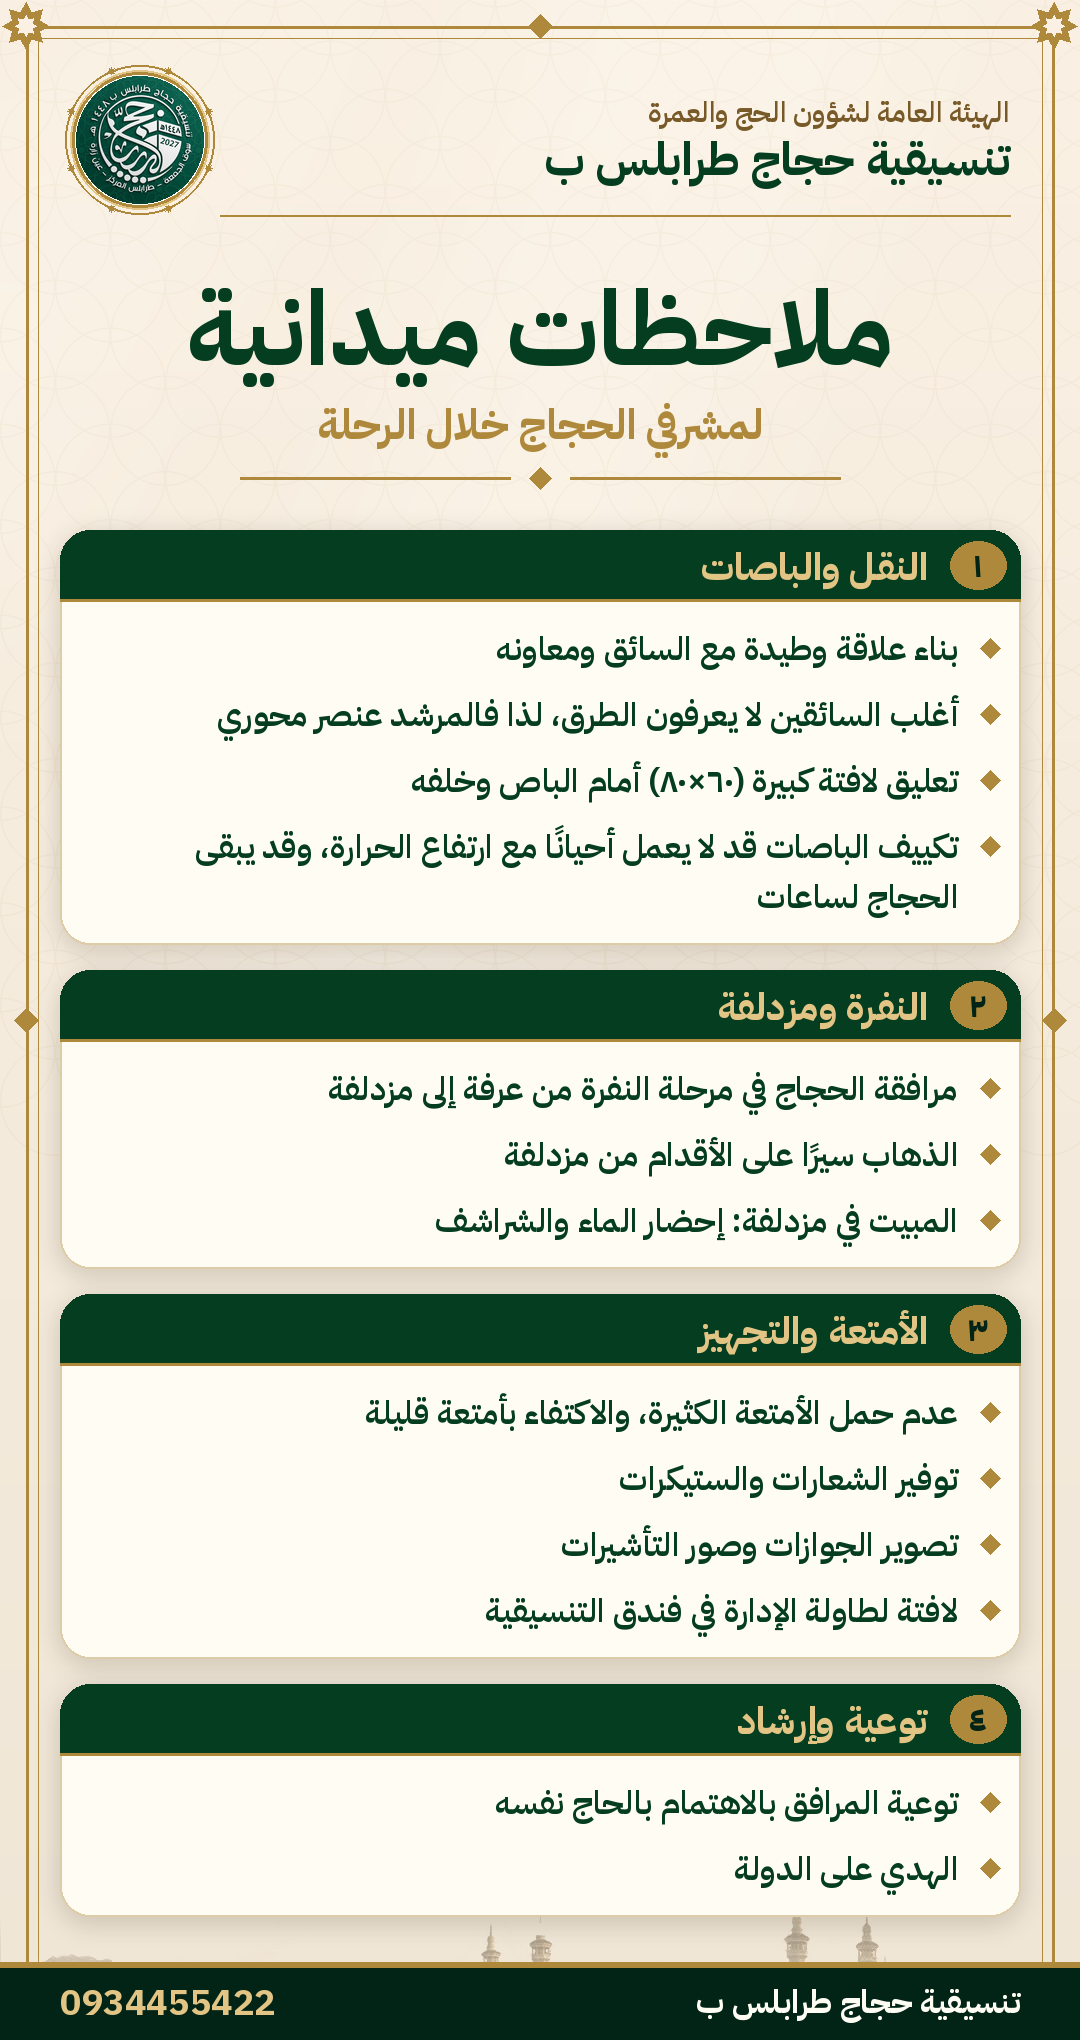
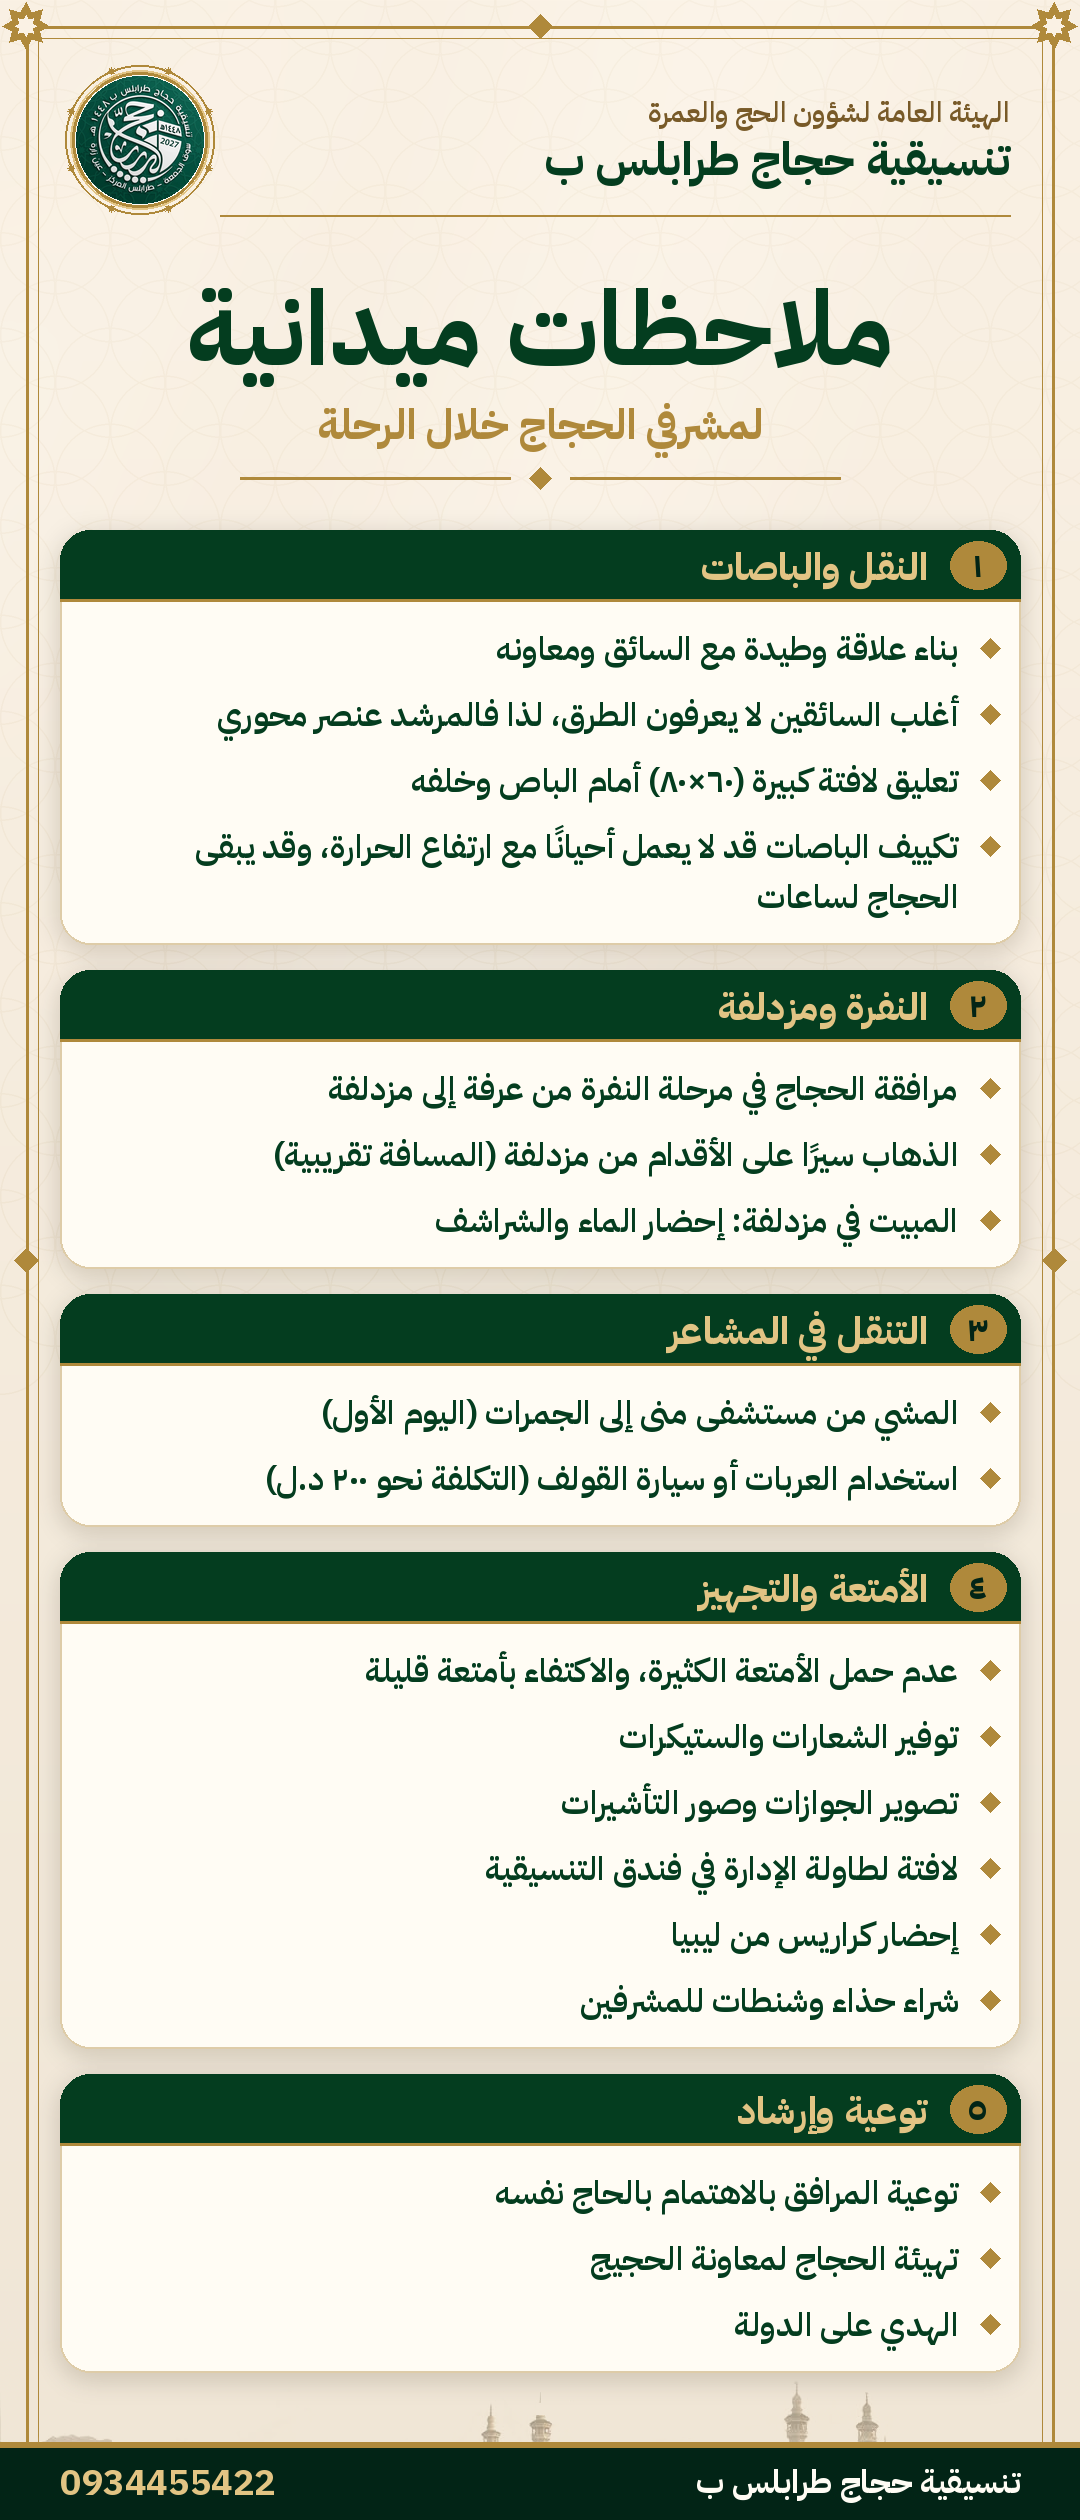
Field-notes card: add the previously omitted items
Claude-Session: https://claude.ai/code/session_0191y2EXY5dUDpfBFmNJAMrU

diff --git a/identity_pack/make_notes.py b/identity_pack/make_notes.py
@@ -6,7 +6,7 @@ from pack_lib import *
 from make_welcome_set import medallion, crown
 from make_tips import wrap, badge
 
-W, H = 1080, 2040
+W, H = 1080, 2520
 NAME, PHONE = "تنسيقية حجاج طرابلس ب", "0934455422"
 BRONZE_T = (120, 90, 40)
 SECTIONS = [
@@ -18,17 +18,24 @@ SECTIONS = [
  ]),
  ("النفرة ومزدلفة", [
     "مرافقة الحجاج في مرحلة النفرة من عرفة إلى مزدلفة",
-    "الذهاب سيرًا على الأقدام من مزدلفة",
+    "الذهاب سيرًا على الأقدام من مزدلفة (المسافة تقريبية)",
     "المبيت في مزدلفة: إحضار الماء والشراشف",
+ ]),
+ ("التنقل في المشاعر", [
+    "المشي من مستشفى منى إلى الجمرات (اليوم الأول)",
+    "استخدام العربات أو سيارة القولف (التكلفة نحو ٢٠٠ د.ل)",
  ]),
  ("الأمتعة والتجهيز", [
     "عدم حمل الأمتعة الكثيرة، والاكتفاء بأمتعة قليلة",
     "توفير الشعارات والستيكرات",
     "تصوير الجوازات وصور التأشيرات",
     "لافتة لطاولة الإدارة في فندق التنسيقية",
+    "إحضار كراريس من ليبيا",
+    "شراء حذاء وشنطات للمشرفين",
  ]),
  ("توعية وإرشاد", [
     "توعية المرافق بالاهتمام بالحاج نفسه",
+    "تهيئة الحجاج لمعاونة الحجيج",
     "الهدي على الدولة",
  ]),
 ]
@@ -36,7 +43,7 @@ AR = str.maketrans("0123456789", "٠١٢٣٤٥٦٧٨٩")
 
 def build():
     img = paper(W, H, warm=True); img = add_lattice(img, (205, 183, 140), 38, ramp=vramp(H, 0, H, .6, 1)); frame(img, 26, GOLD, 3, 12); cx = W // 2
-    paste(img, sky_layer(W, .4), 0, 1890)
+    paste(img, sky_layer(W, .4), 0, 2370)
     medallion(img, 140, 140, 64, shadow=False); d = ImageDraw.Draw(img)
     d.text((W - 70, 112), "الهيئة العامة لشؤون الحج والعمرة", font=font(600, 28), fill=BRONZE_T, anchor="rm", direction="rtl", language="ar")
     d.text((W - 70, 160), NAME, font=font(700, 46), fill=GREEN, anchor="rm", direction="rtl", language="ar")
